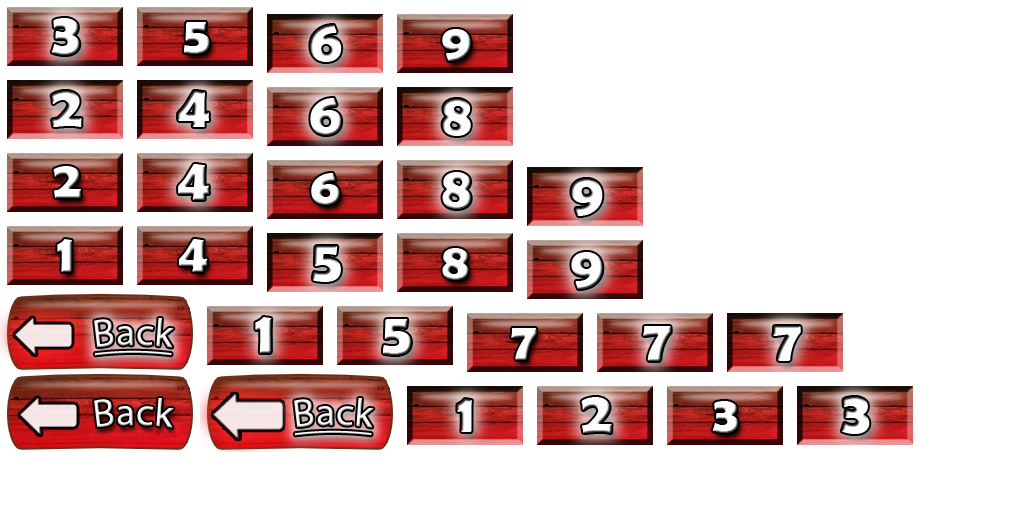
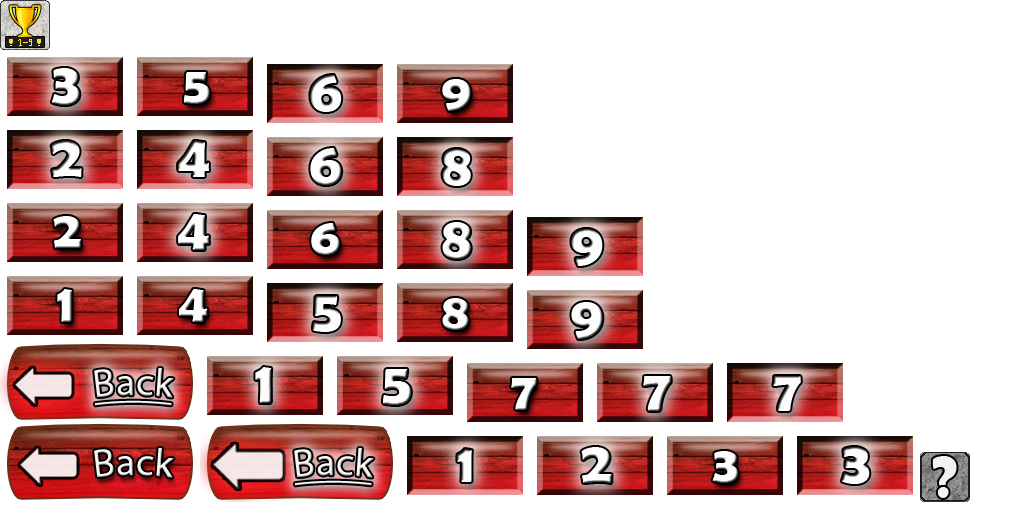
LevelScreen design finished!

diff --git a/core/src/com/aau/auris/game/screens/LevelScreen.java b/core/src/com/aau/auris/game/screens/LevelScreen.java
@@ -96,7 +96,11 @@ public class LevelScreen implements Screen, Asset
 		ImageTextButtonStyle itbStyle = new ImageTextButtonStyle();
 		itbStyle.font = bFont;
 		itbStyle.fontColor = Color.WHITE;
-		itbStyle.imageUp = skin.getDrawable("1diff1");
+		itbStyle.imageUp = skin.getDrawable("secret");
+		ImageTextButtonStyle itbStyleAch1 = new ImageTextButtonStyle();
+		itbStyleAch1.font = bFont;
+		itbStyleAch1.fontColor = Color.WHITE;
+		itbStyleAch1.imageUp = skin.getDrawable("achLevels");
 
 		final int s_width = Gdx.graphics.getWidth(), s_height = Gdx.graphics.getHeight();//screen dimension
 		final float width = s_width / 6.5f, height = s_height / 6.5f;//box dimension, dimension of achievement-labels and level-labels
@@ -104,23 +108,23 @@ public class LevelScreen implements Screen, Asset
 		final float factor = 1.5f;
 		final float x = width * 1.3f;
 
-		final float achiev_w = width;
+		final float achiev_w = width+10;
 		final float achiev_h = height;
 
 		// Achievements
-		ImageTextButton itbAchiev1 = new ImageTextButton("Achievement 1", itbStyle);
-		itbAchiev1.setBounds(x, s_height - (height), achiev_w, achiev_h);
+		ImageTextButton itbAchiev1 = new ImageTextButton("", itbStyleAch1);
+		itbAchiev1.setBounds(x+50, (s_height - (height))-55, achiev_w, achiev_h);
 		itbAchiev1.add(itbAchiev1.getImage()).row();
 		itbAchiev1.add(itbAchiev1.getLabel());
 
-		System.out.println(itbAchiev1.getWidth()+";"+itbAchiev1.getHeight());
-		ImageTextButton itbAchiev2 = new ImageTextButton("Achievement 2", itbStyle);
+//		System.out.println(itbAchiev1.getWidth()+";"+itbAchiev1.getHeight());
+		ImageTextButton itbAchiev2 = new ImageTextButton("", itbStyle);
 		itbAchiev2.setBounds(itbAchiev1.getX() + (itbAchiev1.getWidth() * factor), itbAchiev1.getY(), itbAchiev1.getWidth(), itbAchiev1.getHeight());
 		itbAchiev2.add(itbAchiev2.getImage()).row();
 		itbAchiev2.add(itbAchiev2.getLabel());
 
-		ImageTextButton itbAchiev3 = new ImageTextButton("Achievement 3", itbStyle);
-		itbAchiev3.setBounds(itbAchiev2.getX() + (itbAchiev2.getWidth() * factor), itbAchiev2.getY(), itbAchiev1.getWidth(), itbAchiev1.getHeight());
+		ImageTextButton itbAchiev3 = new ImageTextButton("", itbStyle);
+		itbAchiev3.setBounds(itbAchiev2.getX() + (itbAchiev2.getWidth() * factor)-15, itbAchiev2.getY(), itbAchiev1.getWidth(), itbAchiev1.getHeight());
 		itbAchiev3.add(itbAchiev3.getImage()).row();
 		itbAchiev3.add(itbAchiev3.getLabel());
 
@@ -131,7 +135,7 @@ public class LevelScreen implements Screen, Asset
 		diff1Lvl1Style.over = skin.getDrawable("1diff1Over");
 		diff1Lvl1Style.font = skin.getFont("default");
 		TextButton diffLvl1Button=new TextButton("", diff1Lvl1Style);
-		diffLvl1Button.setBounds(x, itbAchiev1.getY() - (height * factor), width, height);
+		diffLvl1Button.setBounds(x+60, (s_height - (height) - (height * factor)-35), width, height);
 	
 		TextButtonStyle diff1Lvl2Style = new TextButtonStyle();
 		diff1Lvl2Style.up = skin.getDrawable("1diff2");
@@ -139,7 +143,7 @@ public class LevelScreen implements Screen, Asset
 		diff1Lvl2Style.over = skin.getDrawable("1diff2Over");
 		diff1Lvl2Style.font = skin.getFont("default");
 		TextButton diff1Lvl2Button=new TextButton("", diff1Lvl2Style);
-		diff1Lvl2Button.setBounds(x + (width * factor), diffLvl1Button.getY(), width, height);
+		diff1Lvl2Button.setBounds(diffLvl1Button.getX() + (width * factor), diffLvl1Button.getY(), width, height);
 
 		TextButtonStyle diff1Lvl3Style = new TextButtonStyle();
 		diff1Lvl3Style.up = skin.getDrawable("1diff3");
@@ -147,7 +151,7 @@ public class LevelScreen implements Screen, Asset
 		diff1Lvl3Style.over = skin.getDrawable("1diff3Over");
 		diff1Lvl3Style.font = skin.getFont("default");
 		TextButton diff1Lvl3Button=new TextButton("", diff1Lvl3Style);
-		diff1Lvl3Button.setBounds(x + (width * (factor * 2f)), diffLvl1Button.getY(), width, height);
+		diff1Lvl3Button.setBounds(diff1Lvl2Button.getX() + (width * factor), diffLvl1Button.getY(), width, height);
 
 		// Level Difficulty 2
 		TextButtonStyle diff2Lvl1Style = new TextButtonStyle();

diff --git a/core/src/com/aau/auris/game/AssetLoader.java b/core/src/com/aau/auris/game/AssetLoader.java
@@ -43,7 +43,7 @@ public class AssetLoader
 		spritesheet = new Texture(Gdx.files.internal("spriteFly.png"));
 		menu_background = new Texture(Gdx.files.internal("menu_background.png"));
 		menu_background_blank=new Texture(Gdx.files .internal("backBlank2.png"));
-		menu_background_blank2=new Texture(Gdx.files .internal("backBlank.png"));
+		menu_background_blank2=new Texture(Gdx.files .internal("backLevels.png"));
 		tmp = TextureRegion.split(spritesheet, spritesheet.getWidth() / COLS, spritesheet.getHeight() / ROWS);
 		menu_buttons = new TextureAtlas(Gdx.files.internal("menuButtons.atlas"));
 		levelButtons=new TextureAtlas(Gdx.files.internal("levelButtons.atlas"));

diff --git a/core/src/com/aau/auris/game/AURISGame.java b/core/src/com/aau/auris/game/AURISGame.java
@@ -53,7 +53,7 @@ public class AURISGame extends Game
 		creditsScreen = new CreditsScreen(this);
 
 		player = userdata.getPlayers().get(0);// TODO: debugging for gameScreen
-		this.setScreen(menuScreen);
+		this.setScreen(levelScreen);
 	}
 
 	@Override
